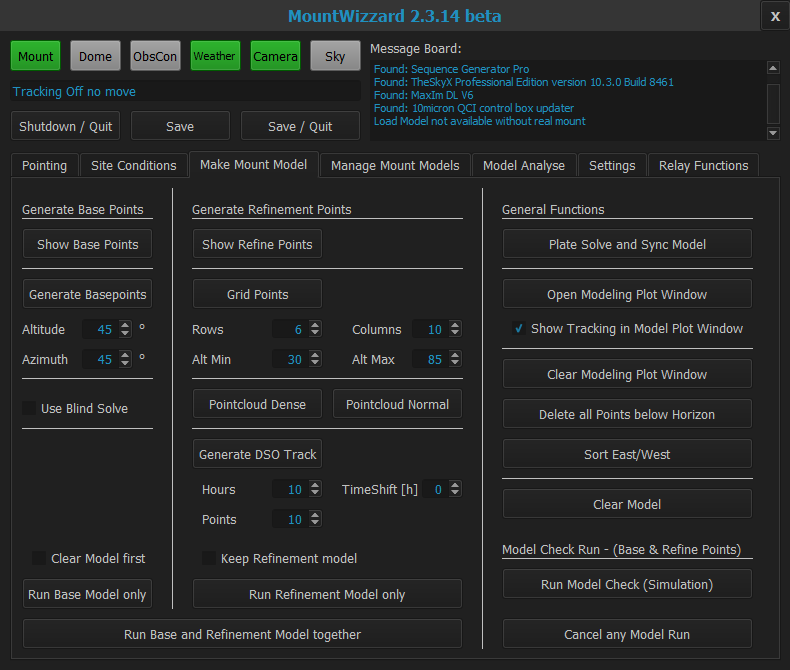
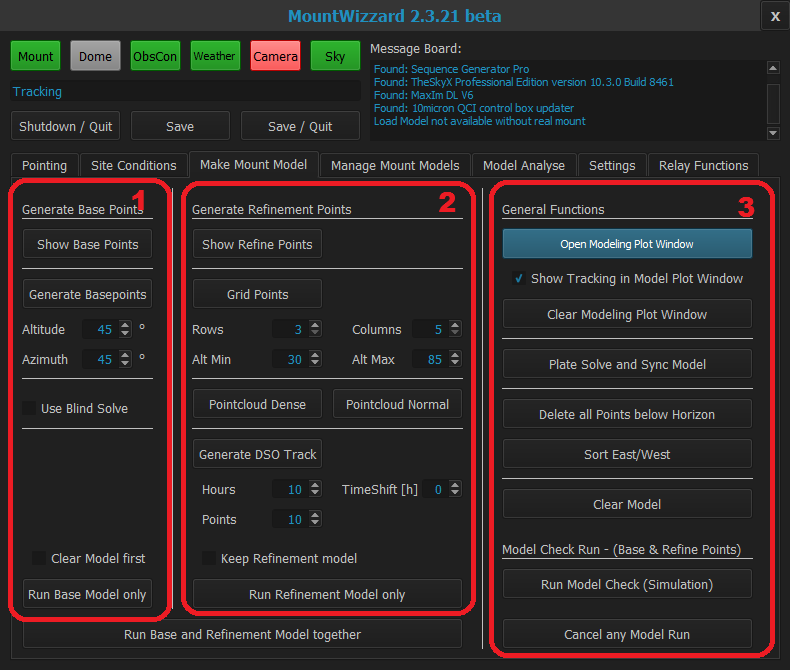
update documentation

diff --git a/mountwizzard/support/wizzard_main_ui.py b/mountwizzard/support/wizzard_main_ui.py
@@ -1404,7 +1404,9 @@ class Ui_WizzardMainDialog(object):
         self.line_36.setFrameShape(QtWidgets.QFrame.HLine)
         self.line_36.setObjectName("line_36")
         self.btn_openCoordinateWindow = QtWidgets.QPushButton(self.tab_6)
-        self.btn_openCoordinateWindow.setGeometry(QtCore.QRect(490, 100, 251, 31))
+        self.btn_openCoordinateWindow.setGeometry(QtCore.QRect(490, 50, 251, 31))
+        self.btn_openCoordinateWindow.setStyleSheet("background-color: rgb(16, 72, 96);\n"
+"color: rgb(255,255,255);")
         self.btn_openCoordinateWindow.setObjectName("btn_openCoordinateWindow")
         self.btn_sortRefinementPoints = QtWidgets.QPushButton(self.tab_6)
         self.btn_sortRefinementPoints.setGeometry(QtCore.QRect(490, 260, 251, 31))
@@ -1530,7 +1532,7 @@ class Ui_WizzardMainDialog(object):
         self.line_42.setFrameShape(QtWidgets.QFrame.HLine)
         self.line_42.setObjectName("line_42")
         self.btn_deletePoints = QtWidgets.QPushButton(self.tab_6)
-        self.btn_deletePoints.setGeometry(QtCore.QRect(490, 180, 251, 31))
+        self.btn_deletePoints.setGeometry(QtCore.QRect(490, 120, 251, 31))
         self.btn_deletePoints.setObjectName("btn_deletePoints")
         self.btn_runAllModel = QtWidgets.QPushButton(self.tab_6)
         self.btn_runAllModel.setGeometry(QtCore.QRect(10, 440, 441, 31))
@@ -1581,7 +1583,7 @@ class Ui_WizzardMainDialog(object):
         self.numberHoursPreview.setProperty("value", 0.0)
         self.numberHoursPreview.setObjectName("numberHoursPreview")
         self.checkRunTrackingWidget = QtWidgets.QCheckBox(self.tab_6)
-        self.checkRunTrackingWidget.setGeometry(QtCore.QRect(500, 140, 241, 20))
+        self.checkRunTrackingWidget.setGeometry(QtCore.QRect(500, 90, 241, 20))
         font = QtGui.QFont()
         font.setPointSize(10)
         self.checkRunTrackingWidget.setFont(font)
@@ -1589,7 +1591,7 @@ class Ui_WizzardMainDialog(object):
         self.checkRunTrackingWidget.setChecked(True)
         self.checkRunTrackingWidget.setObjectName("checkRunTrackingWidget")
         self.btn_plateSolveSync = QtWidgets.QPushButton(self.tab_6)
-        self.btn_plateSolveSync.setGeometry(QtCore.QRect(490, 50, 251, 31))
+        self.btn_plateSolveSync.setGeometry(QtCore.QRect(490, 170, 251, 31))
         self.btn_plateSolveSync.setObjectName("btn_plateSolveSync")
         self.checkClearModelFirst = QtWidgets.QCheckBox(self.tab_6)
         self.checkClearModelFirst.setGeometry(QtCore.QRect(20, 370, 121, 20))
@@ -1605,7 +1607,7 @@ class Ui_WizzardMainDialog(object):
         self.checkKeepRefinement.setFont(font)
         self.checkKeepRefinement.setObjectName("checkKeepRefinement")
         self.line_30 = QtWidgets.QFrame(self.tab_6)
-        self.line_30.setGeometry(QtCore.QRect(490, 80, 251, 21))
+        self.line_30.setGeometry(QtCore.QRect(490, 150, 251, 21))
         self.line_30.setFrameShadow(QtWidgets.QFrame.Plain)
         self.line_30.setFrameShape(QtWidgets.QFrame.HLine)
         self.line_30.setObjectName("line_30")
@@ -1614,11 +1616,6 @@ class Ui_WizzardMainDialog(object):
         self.line_38.setFrameShadow(QtWidgets.QFrame.Plain)
         self.line_38.setFrameShape(QtWidgets.QFrame.HLine)
         self.line_38.setObjectName("line_38")
-        self.line_45 = QtWidgets.QFrame(self.tab_6)
-        self.line_45.setGeometry(QtCore.QRect(490, 160, 251, 21))
-        self.line_45.setFrameShadow(QtWidgets.QFrame.Plain)
-        self.line_45.setFrameShape(QtWidgets.QFrame.HLine)
-        self.line_45.setObjectName("line_45")
         self.label_180 = QtWidgets.QLabel(self.tab_6)
         self.label_180.setGeometry(QtCore.QRect(340, 170, 61, 21))
         font = QtGui.QFont()
@@ -1649,6 +1646,11 @@ class Ui_WizzardMainDialog(object):
         font.setPointSize(10)
         self.label_190.setFont(font)
         self.label_190.setObjectName("label_190")
+        self.line_45 = QtWidgets.QFrame(self.tab_6)
+        self.line_45.setGeometry(QtCore.QRect(490, 200, 251, 21))
+        self.line_45.setFrameShadow(QtWidgets.QFrame.Plain)
+        self.line_45.setFrameShape(QtWidgets.QFrame.HLine)
+        self.line_45.setObjectName("line_45")
         self.mainTabWidget.addTab(self.tab_6, "")
         self.tab_8 = QtWidgets.QWidget()
         self.tab_8.setObjectName("tab_8")
@@ -2228,7 +2230,9 @@ class Ui_WizzardMainDialog(object):
         self.line_29.setFrameShape(QtWidgets.QFrame.HLine)
         self.line_29.setObjectName("line_29")
         self.btn_openAnalyseWindow = QtWidgets.QPushButton(self.tab_5)
-        self.btn_openAnalyseWindow.setGeometry(QtCore.QRect(430, 130, 281, 31))
+        self.btn_openAnalyseWindow.setGeometry(QtCore.QRect(430, 130, 311, 31))
+        self.btn_openAnalyseWindow.setStyleSheet("background-color: rgb(16, 72, 96);\n"
+"color: rgb(255,255,255);")
         self.btn_openAnalyseWindow.setObjectName("btn_openAnalyseWindow")
         self.btn_selectAnalyseFileName = QtWidgets.QPushButton(self.tab_5)
         self.btn_selectAnalyseFileName.setGeometry(QtCore.QRect(430, 80, 121, 31))
@@ -2376,7 +2380,7 @@ class Ui_WizzardMainDialog(object):
         self.label_187.setFont(font)
         self.label_187.setObjectName("label_187")
         self.btn_runBatchModel = QtWidgets.QPushButton(self.tab_5)
-        self.btn_runBatchModel.setGeometry(QtCore.QRect(430, 340, 281, 31))
+        self.btn_runBatchModel.setGeometry(QtCore.QRect(430, 340, 311, 31))
         self.btn_runBatchModel.setObjectName("btn_runBatchModel")
         self.line_52 = QtWidgets.QFrame(self.tab_5)
         self.line_52.setGeometry(QtCore.QRect(370, 10, 21, 461))

diff --git a/mountwizzard/docu/firststeps3.md b/mountwizzard/docu/firststeps3.md
@@ -2,13 +2,85 @@
 
 <img src="../pics/tab_makemountmodel.png"/>
 
-### Area 1
 
-#### -
 
-### Area 2
+### Area 1 - Base Model
+The first ares show all functions, which are necessary for building a base model. If you have already generated a set of
+model points with Per's modelmaker and you have configured this file under [settings - area 3 - model points file](settings1.md)
+you just could use them by "Show Base Points".
+Alternatively you could generate new base points based on a simple rule: MountWizzard distributes the point equally over the 360
+degree azimuth range starting from the given azimuth value at the given altitude.
 
-#### -
+In case of having only a raw setup rig, there might be a good chance, that the plate solver doesn't find a solution in your FOV,
+because you are too far off. If the [configured imaging application](settings1.md) supports blind solving (like SGPro) and you have configured
+blind solving in this application, you can choose blind solving for the first three base points. Blind solving takes far more time
+than normal plate solving, please make you choice.
+
+There is a checkbox for "clear model first". When checked, MountWizzard will delete you actual model and data in the mount before
+adding new base points. In most cases it makes a lot of sense having that option set to on, because you need a clean start for modeling.
+
+<b>"run base model only"</b> will start the model building. The button will be blue during the model run. You cannot start multiple
+runs at the same time. If you would like to stop manually, please select "cancel any model run".
+
+### Area 2 - Refinement Model
+
+Generally MountWizzard keeps base and refinement model separated. This is not forseen in the firmware of the 10micron mount. The mount treats
+the first 3 points as the base points and all following points refine the model. Basically you have some iterations with the base points
+to setup you rig etc. After that your finished with base and doing refinement. If you are fine with this, you're set. If you would like to
+tweak a little bit, you don't want to start with base all the time. Therefore MontWizzard stores the last base model. Whenever you start a
+refinement session, this base model (if there is one) will be loaded and refinement starts from this point. So you could do many refinements
+based on one set.
+
+Area 2 shows the functions for refining the model. Like in the base model you have the possibility of using the an existing set of
+model points from Per's modelmaker (configured this file under [settings - area 3 - model points file](settings1.md)) just by pressing
+"Show Refine Points". In Per's files base and refine points are stored in the same file.
+
+<b>"Grid points"</b> enables you to generate a grid of points equally distributed over the full azimuth and the given altitude (min/max) range.
+You can choose the number of point for rows and columns separately. Please take into account: the higher the altitude is, the closer the
+points will be in the real hemisphere. The azimuth/altitude diagram is in that sense misleading about the density of the points.
+
+<b>"Pointcloud"</b>: To avoid this problem, MountWizzard offers a function of generating point along greater circles in the hemisphere, which have equal
+distances. The plotting in azimuth / altitude diagram might be a little wired, but if you see them in a polar diagram, you will recognise
+the goal. The calculation is done based on you site data. There are two options "pointcloud dense" and "pointcloud normal" which do the
+same job, but have different numbers of stars involved (more in dense, less in normal). Dense should giv you the chance to reach 100 points
+plus, where normal should lead in the direction 50-70 points. This depends how you have set you horizon mask.
+
+<b>"Generate DSO Track"</b> is an expert feature for further refinement od you model. the idea behind this function is, that you are telling
+MountWizzard, which object you would like to image (this is done by slewing th mount the that object) and than generating model points
+along the track this object will have during you imaging session. So you model along you target track and not randomly. For practical
+reasons it might be a good idea to at least a little bit more than just a base model. As explained, MountWizzard clears refinement model part
+before starting refinement process. In the special case of DSO Track this might be not desired. Therefore you can keep an existing refinement model
+by setting the checkbox "keep refinement model.
+
+<b>"run refinment model only"</b> will start the model building. The button will be blue during the model run. You cannot start multiple
+runs at the same time. If you would like to stop manually, please select "cancel any model run".
+
+### Area 3 - General Functions
+
+<b>"open modeling plot window"</b> will open the [modeling plot window](settings1.md), where all informations about modeling points,
+the modeling process, progress in building, logs etc. are shown. MountWizzard stores the information, if you have opened this windows
+and with the next start of MountWizzard it will be opened automatically at the same location.
+
+<b>"clear modeling plot window"</b> will clear all modeling point in this window.
+
+<b>"plate solve and sync model"</b> take an image from the actual position the mount has, plate solves it and syncs the mount model
+to this reference. So no new model is made, but the actual one in synced to the solved pointing. This could be used, if you have a
+permanent pier with mount installed and you have some small deviations.
+
+<b>"delete all points below horizon"</b> is an important feature to manage the modeling points. If you have [area 3 - setup a horizon mask](settings1.md),
+which is BTW recommended, you can delete all the points, which a below the given horizon mask.
+
+<b>"sort east / west"</b> will sort you modeling points in an order to have the pier sides east / west in cluster order. So all points
+on the east side will be modeled first, than pier flip and than all on the west side will be processed. This avoids many pier flips
+during the modeling session and saves you time.
+
+<b>"clear model"</b> will clear the existing model in the mount manually.
+
+<b>"cancel any model run"</b> will stop a base / refinement / model check / combined model run next possible time. The button is red
+until the cancel is succeeded.
+
+<b>"run base and refinement model together"</b> will start the model building for first base and than refinement after another. The button will be blue during the model run. You cannot start multiple
+runs at the same time. If you would like to stop manually, please select "cancel any model run".
 
 [Back to first steps](firststeps.md)
 

diff --git a/mountwizzard/docu/overview.md b/mountwizzard/docu/overview.md
@@ -14,4 +14,4 @@ After modeling you can do some analytics of your model runs. This is mainly loca
 
 <img src="../pics/analysewindow.png"/>
 
-[Back to Home](00home.md)
+[Back to Home](home.md)
